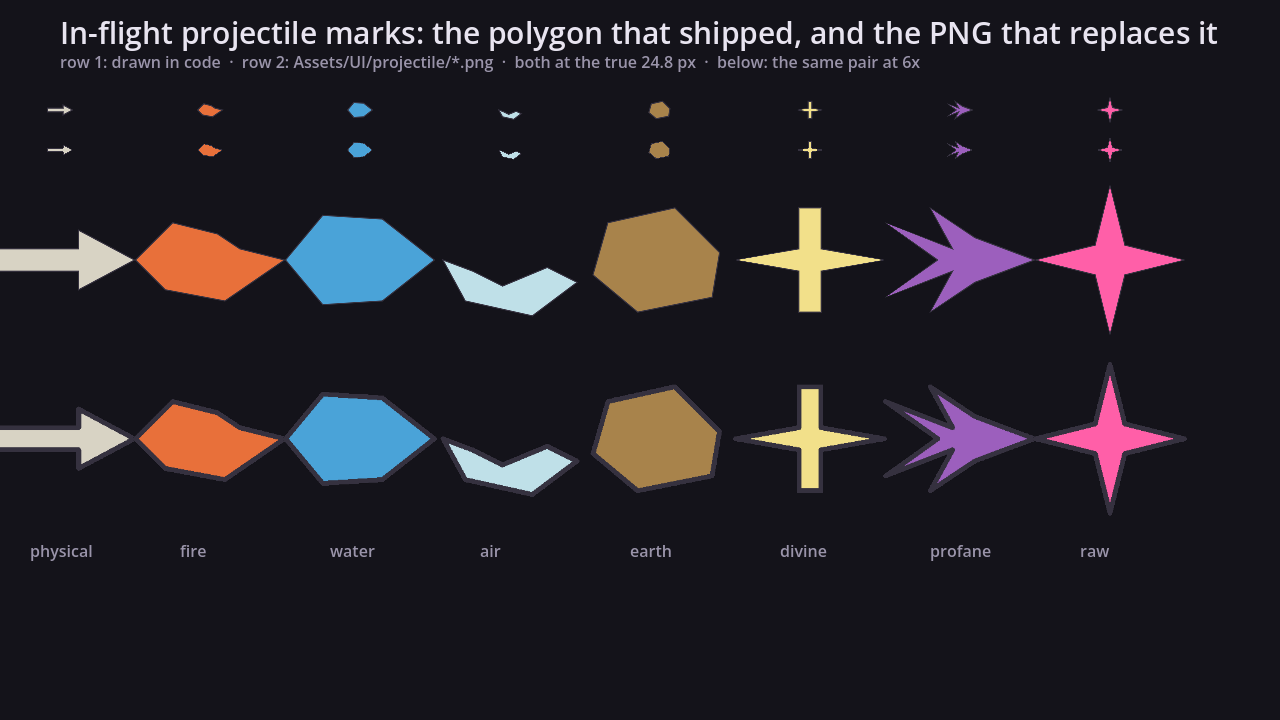
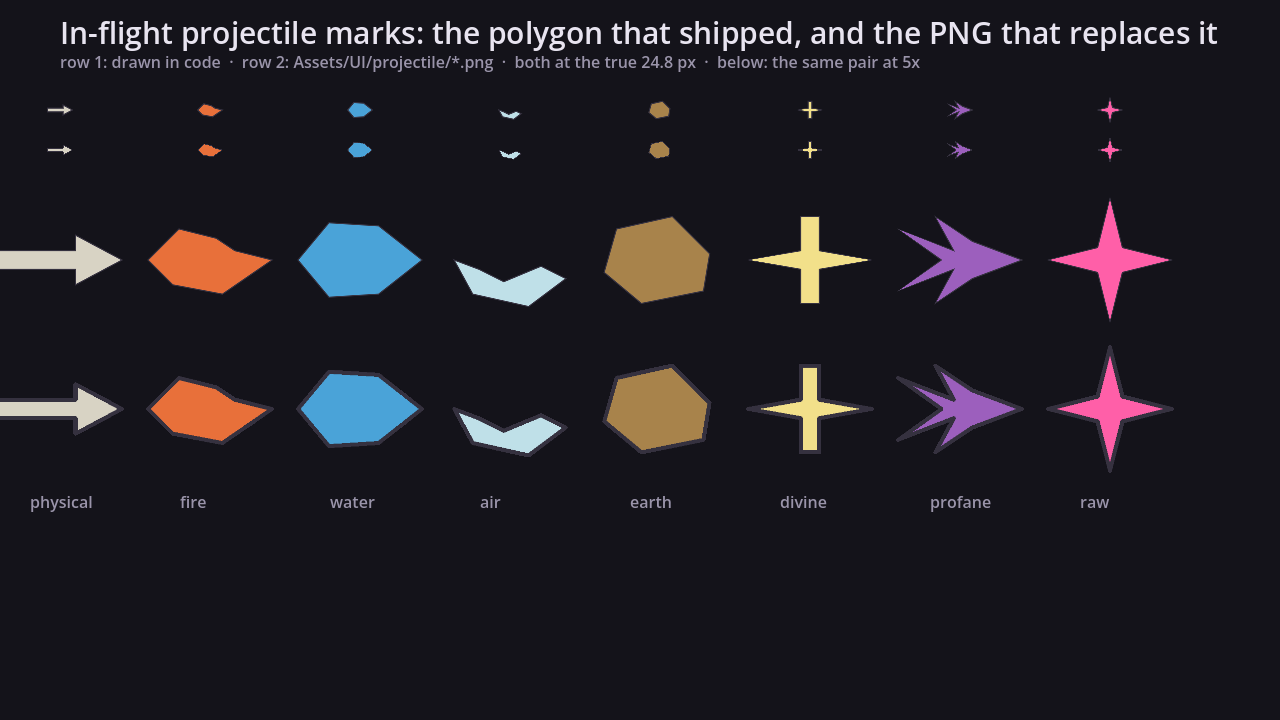
#572: verify the bake by pixels, and pin the eight marks with tests
The comparison tool now measures each half's INK BOX rather than counting pixel
inequality, because antialiasing moves that count on its own and the question
the issue asks is whether the mark changed size. Measured at true size and at
5x: the deltas flip sign between the two rows, which is edge coverage rather
than a change of scale. The mark is not bigger.

_ZOOM was 6, at which a 24.8px mark is 149px wide in a 150px cell and each
column's crop read its neighbour's ink. Five clears it.

Five tests added. The one that matters is the pixel-distinctness check: the
array-distinctness test above it measures the authoring data, which is no
longer what ships, and that is exactly the trap #280 was written for. Also
pinned: _ALL_DAMAGE_TYPES equals the enum rather than agreeing with whoever
typed it, every type loads a mark, and no mark is clipped at the canvas edge.

Comment blocks cut to their first sentence.

Agent: teal
Claude-Session: https://claude.ai/code/session_012CA6Ya48XidKxvc7sAbAL7

diff --git a/Assets/UI/README.md b/Assets/UI/README.md
@@ -97,6 +97,25 @@ land. Nothing checks this any more -- it was checked while both were the same
 array in code, and two PNGs cannot be compared that way -- so it is a rule for
 whoever repaints them.
 
+## In-flight projectile marks
+
+One per damage type, the mark a shot draws while it is still travelling. It is
+about 25 pixels across in the arena and it is rotated to its direction of
+travel, so **author it pointing right** and let the game turn it.
+
+`projectile/physical.png`, `projectile/fire.png`, `projectile/water.png`,
+`projectile/air.png`, `projectile/earth.png`, `projectile/divine.png`,
+`projectile/profane.png`, `projectile/raw.png`
+
+The filename is the lower-cased `CG.DamageType`, and **this list is checked by a
+test**: a damage type without a mark fails the build rather than putting a black
+square in a fight, and no two marks may be the same picture.
+
+**Leave a margin.** The shape is baked into the middle 95% of the canvas so its
+outline is not clipped at the tips, and a replacement that inks to the border
+will look cut off. `Tools/BakeProjectiles.gd` re-bakes all eight from the
+authoring shapes in `Scripts/Art/AttackFX.gd`.
+
 ## Equipment icons
 
 One per item, shown on the pre-fight equip screen at about 32 pixels.
